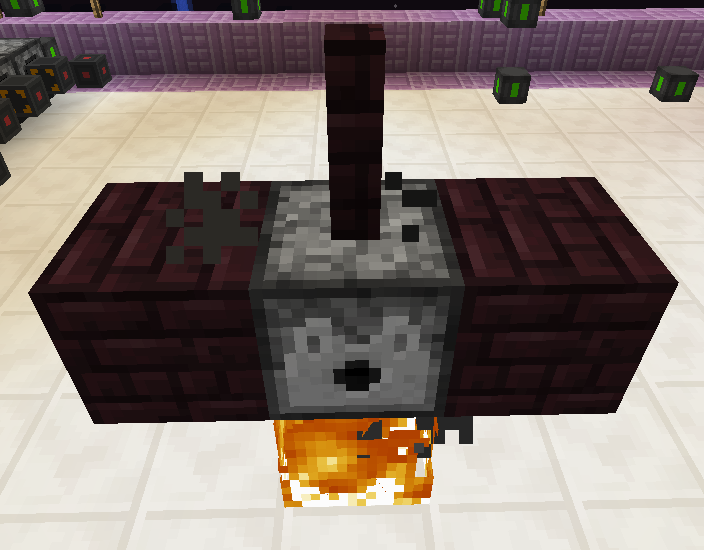
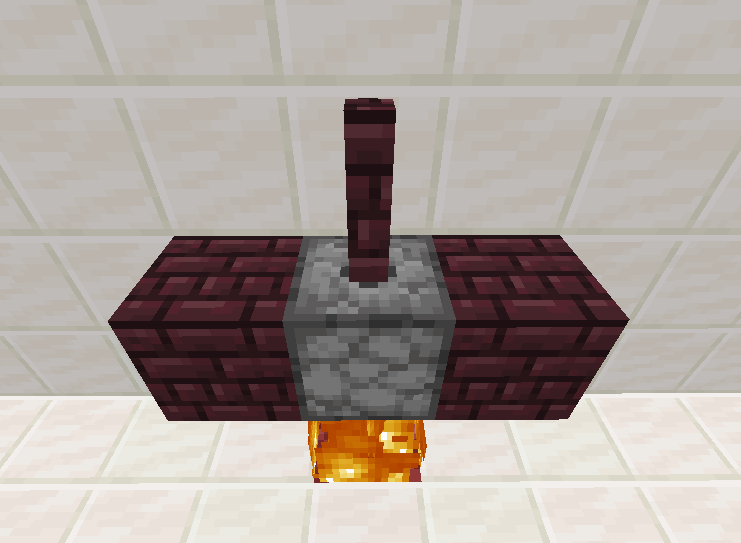
Technical Components and Items Category addition. (#27)
* Changed add to contains

* Created technical-components.md

Contains all technical components and links to their files. Excludes Solar_Array as it is scheduled to be removed.

* Changed File Name to Technical-Components.md

* Changed add to contains.

* Changed new to Slimefun.

* Changed includes to contains.

* Created the Magnet wiki page.

* Changed adds to contains.

* Created Circuit-Boards.md

* Created Battery.md

* Created Steel-Thruster.md

* Created Power-Crystal.md

* Created Solar-Panel.md

* Created Electromagnet.md

* Created Electric-Motor.md

* Created Heating-Coil.md

* Created Copper-Wire.md

* Created Hardened-Glass.md

* Created Cooling-Unit.md

* Created Wither-Proof-Blocks.md

* Created Coolant-Cells.md

* Added New Smeltery Image

* Delete Smeltery.PNG

* Delete multiblock-smeltery.png

* Adds new Smeltery multiblock image

Plain background. No smoke from fire.

* Fixed Spelling Error - Utilise to Utilize

* Minor updates to page's text.

* Created Items.md

* Created Portable-Crafter.md

* Created Portable-Dustbin.md

* Created File for Medical-Supply.md - File is WIP

* Created file for Backpacks.md - File is WIP

* Created Cooler.md

* Added Magnesium Salt

* Updated Design

* Added Kelp Cookie

* Created Kelp-Cookie.md

* Added New Armor Forge Image

* Removing Backpacks.md until it can be fully created

* Fixed - Portable Crafter to Cooler

* Removing page until it can be completely created.

* Changed Medical-Supply to Medical-Supplies
[…]

diff --git a/pages/Technical-Components.md b/pages/Technical-Components.md
@@ -1,0 +1,20 @@
+The Technical Components category contains various items which can be used in the crafting and operation of numerous items and machines.
+
+## Table of contents
+* [Magnet](https://github.com/TheBusyBiscuit/Slimefun4/wiki/Magnet)
+* [Basic Circuit Board](https://github.com/TheBusyBiscuit/Slimefun4/wiki/Circuit-Boards)
+* [Advanced Circuit Board](https://github.com/TheBusyBiscuit/Slimefun4/wiki/Circuit-Boards)
+* [Battery](https://github.com/TheBusyBiscuit/Slimefun4/wiki/Battery)
+* [Steel Thruster](https://github.com/TheBusyBiscuit/Slimefun4/wiki/Steel-Thruster)
+* [Power Crystal](https://github.com/TheBusyBiscuit/Slimefun4/wiki/Power-Crystal)
+* [Solar Panel](https://github.com/TheBusyBiscuit/Slimefun4/wiki/Solar-Panel)
+* [Electromagnet](https://github.com/TheBusyBiscuit/Slimefun4/wiki/Electromagnet)
+* [Electric Motor](https://github.com/TheBusyBiscuit/Slimefun4/wiki/Electric-Motor)
+* [Heating Coil](https://github.com/TheBusyBiscuit/Slimefun4-Wiki/Heating-Coil)
+* [Copper Wire](https://github.com/TheBusyBiscuit/Slimefun4-Wiki/Copper-Wire)
+* [Hardened Glass](https://github.com/TheBusyBiscuit/Slimefun4-Wiki/Hardened-Glass)
+* [Cooling Unit](https://github.com/TheBusyBiscuit/Slimefun4-Wiki/Cooling-Unit)
+* [Wither-Proof Obsidian](https://github.com/TheBusyBiscuit/Slimefun4-Wiki/Wither-Proof-Blocks)
+* [Wither-Proof Glass](https://github.com/TheBusyBiscuit/Slimefun4-Wiki/Wither-Proof-Blocks)
+* [Reactor Coolant Cell](https://github.com/TheBusyBiscuit/Slimefun4-Wiki/Coolant-Cells)
+* [Nether Ice Coolant Cell](https://github.com/TheBusyBiscuit/Slimefun4-Wiki/Coolant-Cells)

diff --git a/pages/Items.md b/pages/Items.md
@@ -1,0 +1,18 @@
+The Items category contains various items that all have their own unique use.
+
+## Table of Contents
+* [Portable Crafter](https://github.com/TheBusyBiscuit/Slimefun4/wiki/Portable-Crafter)
+* [Portable Dustbin](https://github.com/TheBusyBiscuit/Slimefun4/wiki/Portable-Dustbin)
+* [Rag](https://github.com/TheBusyBiscuit/Slimefun4/wiki/Medical-Supply)
+* [Bandage](https://github.com/TheBusyBiscuit/Slimefun4/wiki/Medical-Supplies)
+* [Splint](https://github.com/TheBusyBiscuit/Slimefun4/wiki/Medical-Supplies)
+* [Vitamins](https://github.com/TheBusyBiscuit/Slimefun4/wiki/Medical-Supplies)
+* [Medicine](https://github.com/TheBusyBiscuit/Slimefun4/wiki/Medical-Supplies)
+* [Small Backpack](https://github.com/TheBusyBiscuit/Slimefun4/wiki/Backpacks)
+* [Backpack](https://github.com/TheBusyBiscuit/Slimefun4/wiki/Backpacks)
+* [Large Backpack](https://github.com/TheBusyBiscuit/Slimefun4/wiki/Backpacks)
+* [Woven Backpack](https://github.com/TheBusyBiscuit/Slimefun4/wiki/Backpacks)
+* [Gilded Backpack](https://github.com/TheBusyBiscuit/Slimefun4/wiki/Backpacks)
+* [Radiant Backpack](https://github.com/TheBusyBiscuit/Slimefun4/wiki/Backpacks)
+* [Soulbound Backpack](https://github.com/TheBusyBiscuit/Slimefun4/wiki/Backpacks)
+* [Cooler](https://github.com/TheBusyBiscuit/Slimefun4/wiki/Cooler)

diff --git a/pages/Smeltery.md b/pages/Smeltery.md
@@ -13,10 +13,10 @@ Without an [Output Chest](https://github.com/TheBusyBiscuit/Slimefun4/wiki/Outpu
 
 ## How to use the Smeltery
 If you want to craft an Item using the Smeltery, get your items ready and put them into the dispenser (shape does not matter).<br>
-Now right-click the Nether Fence Post and you should see the Smeltery starting to craft your item.
+Now right-click the Nether Brick Fence and you should see the Smeltery craft your item.
 
 ## Tips and tricks
 Since the Smeltery's fire can be consumed every so often, make sure to either have a Flint and Steel ready or do one of the following tricks:
 * Put a piece of netherrack 2 blocks under the smeltery, so the fire does not randomly go out without actually using it.
 * Use a dispenser filled with Flint & Steel to ignite the fire again. You can hook it up to an Observer Block or a redstone clock to automate the re-ignition.
-* Utilise an [Automated Ignition Chamber](https://github.com/TheBusyBiscuit/Slimefun4/wiki/Automated-Ignition-Chamber), which will automatically re-ignite the fire.
+* Utilize the [Automated Ignition Chamber](https://github.com/TheBusyBiscuit/Slimefun4/wiki/Automated-Ignition-Chamber), which will automatically re-ignite the fire.

diff --git a/pages/Coolant-Cells.md b/pages/Coolant-Cells.md
@@ -1,0 +1,15 @@
+Coolant Cells are a set of [Technical Components](https://github.com/TheBusyBiscuit/Slimefun4/wiki/Technical-Components) that are used as coolant for the [Nuclear Reactor](https://github.com/TheBusyBiscuit/Slimefun4/wiki/Nuclear-Reactor) and [Nether Star Reactor](https://github.com/TheBusyBiscuit/Slimefun4/wiki/Nether-Star-Reactor).
+
+## Obtaining
+### Reactor Coolant Cell
+Reactor Coolant Cells are created in the [Freezer](https://github.com/TheBusyBiscuit/Slimefun4/wiki/Freezer).
+
+### Nether Ice Coolant Cell
+Nether Ice Coolant Cells are created in the [Heated Pressure Chamber](https://github.com/TheBusyBiscuit/Slimefun4/wiki/Heated-Pressure-Chamber).
+
+## Usage
+### Reactor Coolant Cell
+Reactor Coolant Cells are used to cool the [Nuclear Reactor](https://github.com/TheBusyBiscuit/Slimefun4/wiki/Nuclear-Reactor) and are required for its operation. 
+
+### Nether Ice Coolant Cell
+Nether Ice Coolant Cells are used to cool the [Nether Star Reactor](https://github.com/TheBusyBiscuit/Slimefun4/wiki/Nether-Star-Reactor) and are required for its operation. 

diff --git a/pages/Food.md b/pages/Food.md
@@ -1,4 +1,6 @@
-The Food category contains the following foods and juices:
+The Food category contains a variety of foods and [juices](https://github.com/TheBusyBiscuit/Slimefun4/wiki/Juices)
+
+## Table of Contents
 * [Fortune Cookie](https://github.com/TheBusyBiscuit/Slimefun4/wiki/Fortune-Cookie)
 * [Diet Cookie](https://github.com/TheBusyBiscuit/Slimefun4/wiki/Diet-Cookie)
 * [Beef Jerky](https://github.com/TheBusyBiscuit/Slimefun4/wiki/Meat-Jerky)
@@ -6,6 +8,7 @@ The Food category contains the following foods and juices:
 * [Chicken Jerky](https://github.com/TheBusyBiscuit/Slimefun4/wiki/Meat-Jerky)
 * [Mutton Jerky](https://github.com/TheBusyBiscuit/Slimefun4/wiki/Meat-Jerky)
 * [Fish Jerky](https://github.com/TheBusyBiscuit/Slimefun4/wiki/Meat-Jerky)
+* [Kelp Cookie](https://github.com/TheBusyBiscuit/Slimefun4/wiki/Kelp-Cookie)
 * [Magic Sugar](https://github.com/TheBusyBiscuit/Slimefun4/wiki/Magic-Sugar)
 * [Monster Jerky](https://github.com/TheBusyBiscuit/Slimefun4/wiki/Monster-Jerky)
 * [Apple Juice](https://github.com/TheBusyBiscuit/Slimefun4/wiki/Juices)

diff --git a/pages/Resources.md b/pages/Resources.md
@@ -1,4 +1,4 @@
-The Resources category contains many natural and man-made resources which are used extensively in new recipes.
+The Resources category contains many natural and man-made resources which are used extensively in Slimefun recipes.
 
 ## Table of contents
 ### [Dusts](https://github.com/TheBusyBiscuit/Slimefun4/wiki/Dusts)
@@ -13,6 +13,7 @@ The Resources category contains many natural and man-made resources which are us
 * [Carbon](https://github.com/TheBusyBiscuit/Slimefun4/wiki/Carbon)
 * [Compressed Carbon](https://github.com/TheBusyBiscuit/Slimefun4/wiki/Compressed-Carbon)
 * [Carbon Chunk](https://github.com/TheBusyBiscuit/Slimefun4/wiki/Carbon-Chunk)
+* [Magnesium Salt](https://github.com/TheBusyBiscuit/Slimefun4/wiki/Magnesium-Salt)
 * [Sulfate](https://github.com/TheBusyBiscuit/Slimefun4/wiki/Sulfate)
 * [Silicon](https://github.com/TheBusyBiscuit/Slimefun4/wiki/Silicon)
 ### Fuel

diff --git a/pages/Cooler.md b/pages/Cooler.md
@@ -1,0 +1,7 @@
+The Cooler is an [Item](https://github.com/TheBusyBiscuit/Slimefun4/wiki/Items) that has a unique use.
+
+## Obtaining
+The Cooler can be crafted in the [Enhanced Crafting Table](https://github.com/TheBusyBiscuit/Slimefun4/wiki/Enhanced-Crafting-Table).
+
+## Usage
+The Cooler can be used while holding the item by right clicking. Upon right clicking, the item will open up a chest GUI in which the player can place any [Juice](https://github.com/TheBusyBiscuit/Slimefun4/wiki/Juices). If the cooler is in the player's inventory, and the player is hungry, the cooler will automatically feed the player the juices inside.

diff --git a/pages/Wither-Proof-Blocks.md b/pages/Wither-Proof-Blocks.md
@@ -1,0 +1,7 @@
+Wither-Proof Blocks are a set of [Technical Components](https://github.com/TheBusyBiscuit/Slimefun4/wiki/Technical-Components) that have special properties and can be used to craft the [Wither Assembler](https://github.com/TheBusyBiscuit/Slimefun4/wiki/Wither-Assembler).
+
+## Obtaining
+Both the Wither-Proof Obsidian and Wither-Proof Glass can be crafted in the [Enhanced Crafting Table](https://github.com/TheBusyBiscuit/Slimefun4/wiki/Enhanced-Crafting-Table)
+
+## Special Properties
+Both the Wither-Proof Obsidian and Wither-Proof Glass are completely immune to Wither explosions, and cannot be damaged by them. 

diff --git a/pages/Portable-Dustbin.md b/pages/Portable-Dustbin.md
@@ -1,0 +1,7 @@
+The Portable Dustbin is an [Item](https://github.com/TheBusyBiscuit/Slimefun4/wiki/Items) that has a unique use.
+
+## Obtaining
+The Portable Dustbin can be crafted in the [Enhanced Crafting Table](https://github.com/TheBusyBiscuit/Slimefun4/wiki/Enhanced-Crafting-Table).
+
+## Usage
+The Portable Dustbin can be used while holding the item by right clicking. Upon right clicking, the item will open up a chest GUI in which any item can be placed, upon the player closing the GUI, any items placed in the GUI will be deleted and lost forever. For this reason, players should be cautious when using this item.

diff --git a/pages/Hardened-Glass.md b/pages/Hardened-Glass.md
@@ -1,0 +1,10 @@
+Hardened Glass is a [Technical Component](https://github.com/TheBusyBiscuit/Slimefun4/wiki/Technical-Components) that can be used to craft a variety of other Technical Components.
+
+## Obtaining
+Hardened Glass can be crafted in the [Enhanced Crafting Table](https://github.com/TheBusyBiscuit/Slimefun4/wiki/Enhanced-Crafting-Table)
+
+## Special Properties
+Hardened Glass is resistant to most explosions. However, this excludes explosions created by the Wither boss.
+
+## See Also
+[Wither-Proof Blocks](https://github.com/TheBusyBiscuit/Slimefun4/wiki/Wither-Proof-Blocks)

diff --git a/pages/Circuit-Boards.md b/pages/Circuit-Boards.md
@@ -1,0 +1,8 @@
+Circuit Boards are [Technical Components](https://github.com/TheBusyBiscuit/Slimefun4/wiki/Technical-Components) that can be used in various crafting recipes.
+
+## Obtaining
+### Basic Circuit Board
+The Basic Circuit Board can be obtained by manually killing an Iron Golem, upon the death of the Iron Golem it will drop one Basic Circuit Board.
+
+### Advanced Circuit Board
+The Advanced Circuit Board can be obtained via crafting in an [Enhanced Crafting Table](https://github.com/TheBusyBiscuit/Slimefun4/wiki/Enhanced-Crafting-Table).

diff --git a/pages/Solar-Panel.md b/pages/Solar-Panel.md
@@ -1,0 +1,4 @@
+The Solar Panel is a [Technical Component](https://github.com/TheBusyBiscuit/Slimefun4/wiki/Technical-Components) that can be used to craft a variety of [Solar Generators](https://github.com/TheBusyBiscuit/Slimefun4/wiki/Solar-Generator) and [Technical Gadgets](https://github.com/TheBusyBiscuit/Slimefun4/wiki/Technical-Gadgets).
+
+## Obtaining
+The Solar Panel can be crafted in the [Enhanced Crafting Table](https://github.com/TheBusyBiscuit/Slimefun4/wiki/Enhanced-Crafting-Table)
